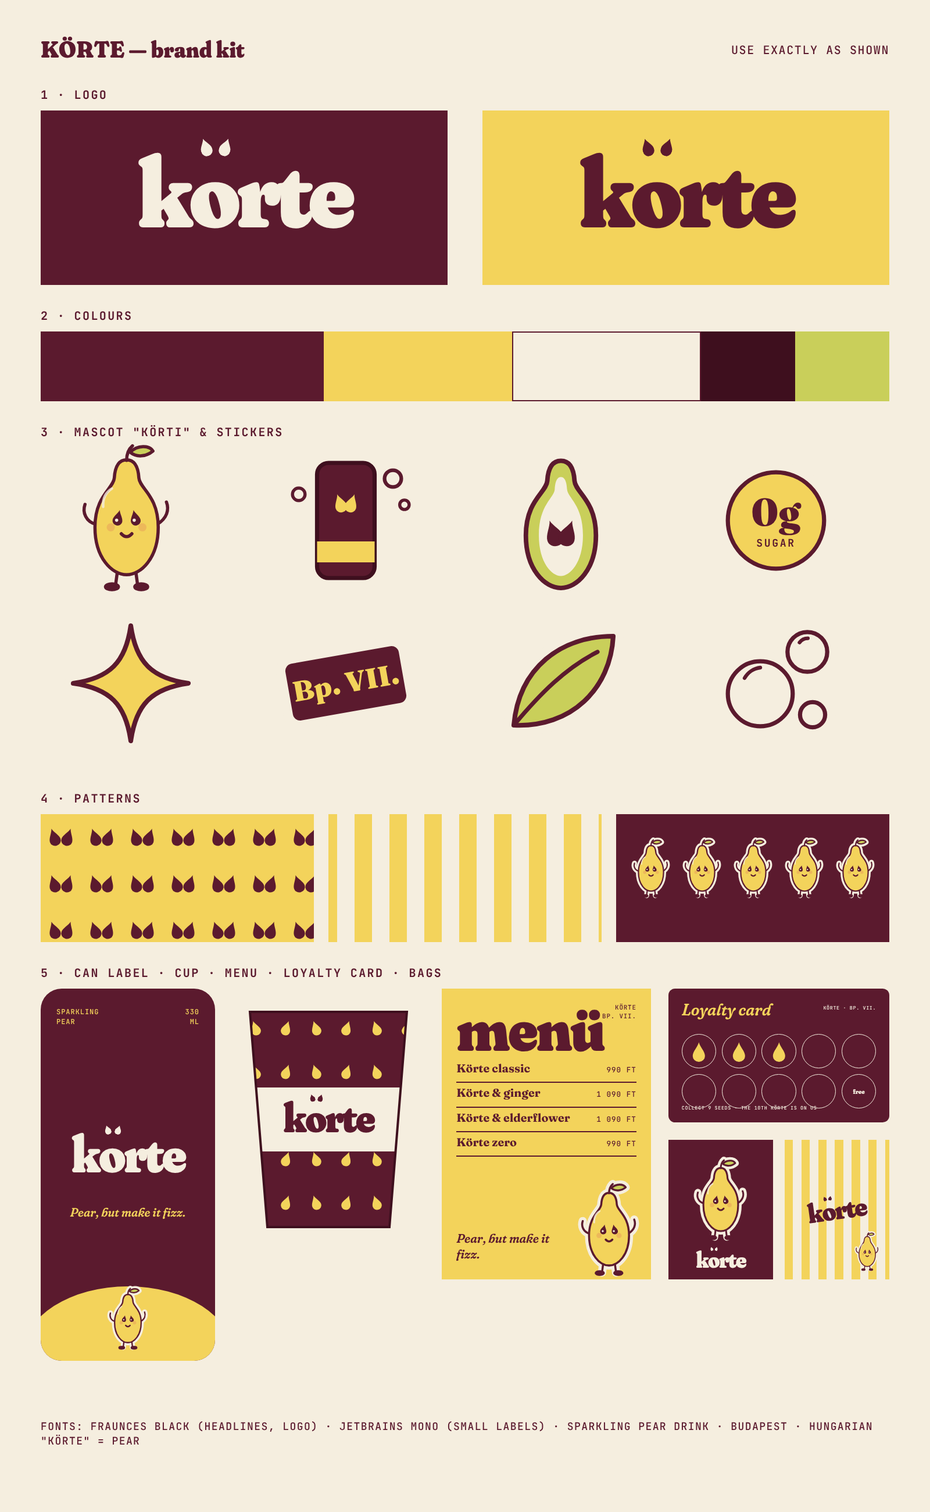
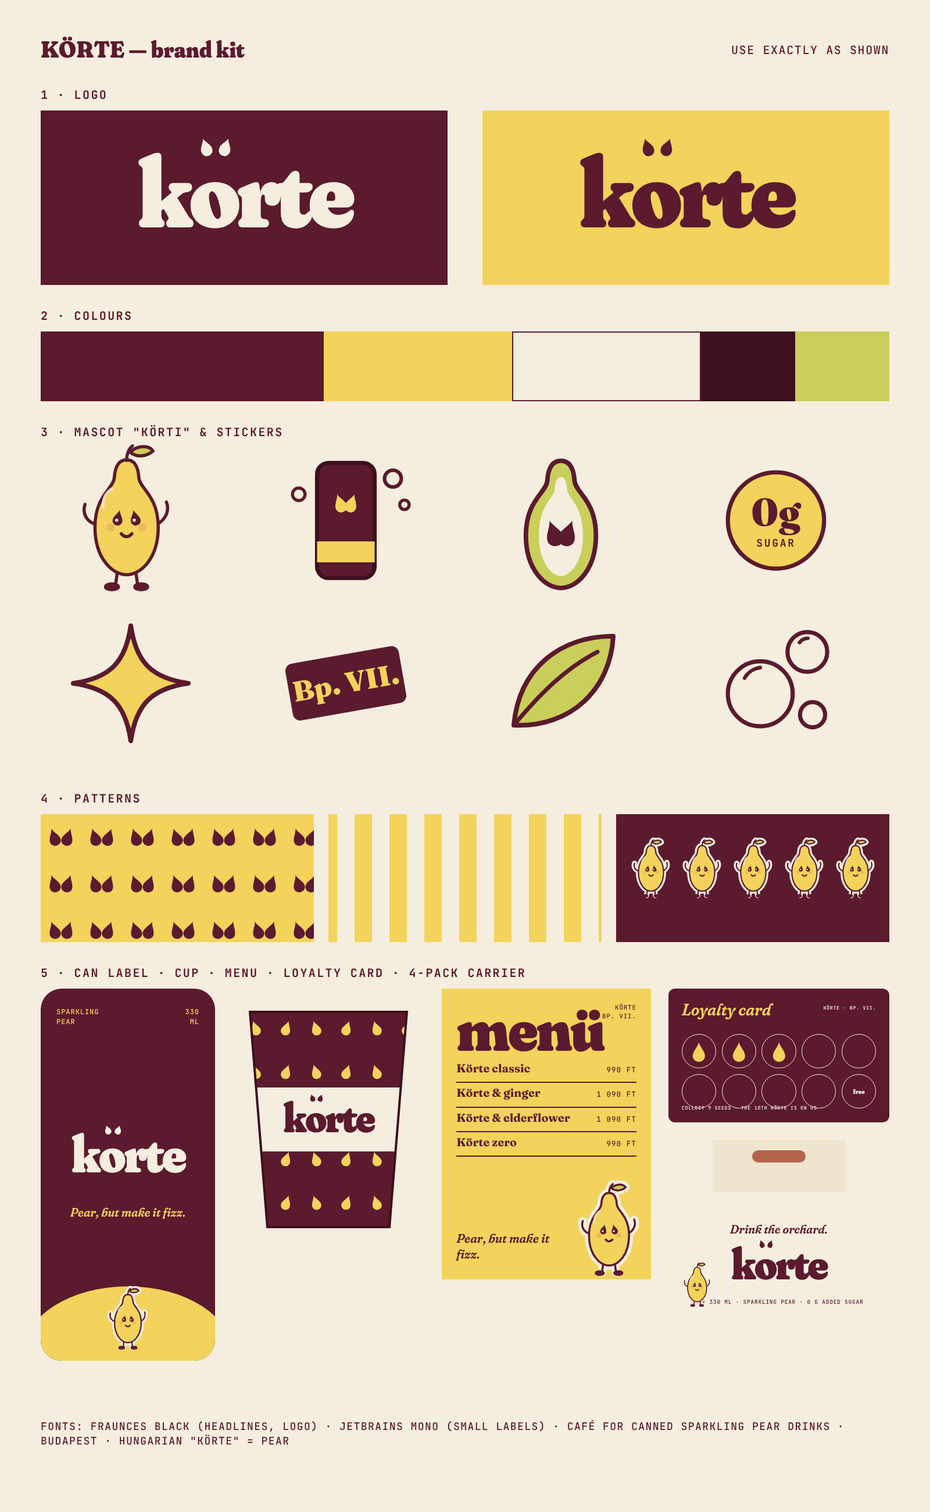
KÖRTE as a canned-drink café: drink-focused sketches, 4-pack in kit, 23promts6
Claude-Session: https://claude.ai/code/session_01FuZubXyqYQcha8AH4cMf93

Changed region(s): [[0.7188, 0.7477, 0.9688, 0.8723]]

diff --git a/reels/brands/korte/kit.html b/reels/brands/korte/kit.html
@@ -92,14 +92,13 @@
   </svg>
 
   <!-- applications -->
-  <div class="abs label" style="top:1660px;left:70px">5 · Can label · Cup · Menu · Loyalty card · Bags</div>
+  <div class="abs label" style="top:1660px;left:70px">5 · Can label · Cup · Menu · Loyalty card · 4-pack carrier</div>
   <div class="abs" style="top:1700px;left:70px;width:300px;height:640px" data-can></div>
   <div class="abs" style="top:1700px;left:400px;width:330px;height:420px" data-cup></div>
   <div class="abs" style="top:1700px;left:760px;width:360px;height:500px" data-menu></div>
   <div class="abs" style="top:1700px;left:1150px;width:380px;height:230px" data-loyalty></div>
-  <div class="abs" style="top:1960px;left:1150px;width:180px;height:240px" data-bag></div>
-  <div class="abs" style="top:1960px;left:1350px;width:180px;height:240px" data-stripebag></div>
-  <div class="abs mono" style="top:2440px;left:70px;right:70px;font-size:18px;color:var(--bur)">Fonts: Fraunces Black (headlines, logo) · JetBrains Mono (small labels) · Sparkling pear drink · Budapest · Hungarian "körte" = pear</div>
+  <div class="abs" style="top:1960px;left:1150px;width:380px;height:300px" data-carrier></div>
+  <div class="abs mono" style="top:2440px;left:70px;right:70px;font-size:18px;color:var(--bur)">Fonts: Fraunces Black (headlines, logo) · JetBrains Mono (small labels) · Café for canned sparkling pear drinks · Budapest · Hungarian "körte" = pear</div>
 </section>
 
 <!-- ================= REEL TILES / FRAMES ================= -->
@@ -153,40 +152,63 @@
   <div class="abs" style="left:300px;top:1440px;width:260px;height:30px;border-radius:50%;background:rgba(91,26,46,.18);filter:blur(10px)"></div>
 </section>
 
-<section data-out="sk-2-loyalty-card" class="sk" style="background:repeating-linear-gradient(90deg,#5B1A2E 0 46px,#4C1426 46px 92px)">
-  <div class="abs" style="left:150px;top:520px;width:740px;height:440px;transform:rotate(-7deg);box-shadow:20px 30px 40px rgba(0,0,0,.4)" data-loyalty></div>
-  <svg class="abs" width="300" height="390" style="left:640px;top:1000px;transform:rotate(28deg);filter:drop-shadow(18px 24px 18px rgba(0,0,0,.45))" viewBox="0 0 400 520"><use href="#pear3d"/></svg>
-  <div class="abs" style="inset:0;background:linear-gradient(135deg,rgba(255,240,200,.18),rgba(0,0,0,0) 45%,rgba(0,0,0,.25))"></div>
+
+
+
+
+
+
+
+
+
+<section data-out="sk-2-can-pour" class="sk" style="background:#F5EEDF">
+  <div class="abs" style="left:0;right:0;top:0;height:560px;background:repeating-linear-gradient(90deg,#5B1A2E 0 120px,#64203A 120px 240px)"></div>
+  <div class="abs" style="left:0;right:0;top:540px;height:24px;background:#3E0F1E"></div>
+  <div class="abs" style="left:0;right:0;top:1180px;bottom:0;background:linear-gradient(#D9B98C,#C49E6E)"></div>
+  <div class="can3d" style="left:520px;top:250px;width:230px;height:470px;transform:rotate(118deg);border-radius:30px;"><div data-can style="width:230px;height:470px"></div><div class="shade"></div><div class="rim"></div><div class="rimb"></div></div>
+  <div class="abs" style="left:478px;top:560px;width:16px;height:470px;border-radius:8px;background:linear-gradient(90deg,#E8C460,#FFF0B0,#E3BC52);opacity:.9"></div>
+  <div class="abs" style="left:350px;top:820px;width:300px;height:420px;border-radius:10px 10px 30px 30px;background:linear-gradient(90deg,rgba(255,255,255,.55),rgba(255,255,255,.15) 30%,rgba(255,255,255,.1) 70%,rgba(255,255,255,.5));border:4px solid rgba(255,255,255,.8)"></div>
+  <div class="abs" style="left:356px;top:930px;width:288px;height:306px;border-radius:0 0 28px 28px;background:linear-gradient(90deg,#E2B84A,#F4D77A 35%,#EBC458 70%,#D9AC3C)"></div>
+  <div class="abs" style="left:356px;top:918px;width:288px;height:26px;border-radius:50%;background:#FFF6D6"></div>
+  <div class="abs" style="left:620px;top:1280px;width:380px;height:228px;transform:rotate(-6deg);box-shadow:12px 16px 20px rgba(0,0,0,.25)" data-loyalty></div>
 </section>
 
-<section data-out="sk-3-bag-brick" class="sk" style="background:#B5654A">
+<section data-out="sk-3-cafe-table" class="sk" style="background:#B86A4E">
+  <svg class="abs" width="1024" height="1536"><defs><pattern id="tile" width="128" height="128" patternUnits="userSpaceOnUse"><rect width="128" height="128" fill="#C2765A"/><rect width="126" height="126" fill="#B86A4E"/></pattern></defs><rect width="1024" height="1536" fill="url(#tile)"/></svg>
+  <div class="abs" style="left:-80px;top:220px;width:1180px;height:1180px;border-radius:50%;background:radial-gradient(circle at 40% 35%,#FBF8F2,#ECE6DA);box-shadow:0 30px 50px rgba(0,0,0,.35)"></div>
+  <div class="can3d" style="left:180px;top:520px;width:240px;height:490px;transform:rotate(-72deg);border-radius:31px;box-shadow:30px 40px 40px rgba(0,0,0,.25)"><div data-can style="width:240px;height:490px"></div><div class="shade"></div><div class="rim"></div><div class="rimb"></div></div>
+  <div class="abs" style="left:560px;top:430px;width:300px;height:300px;border-radius:50%;background:radial-gradient(circle,#F6DC80,#E2B84A 70%,#fff 72%,#e9e4da 78%);box-shadow:16px 20px 26px rgba(0,0,0,.25)"></div>
+  <div class="abs" style="left:520px;top:880px;width:400px;height:240px;transform:rotate(10deg);box-shadow:14px 18px 24px rgba(0,0,0,.25)" data-loyalty></div>
+  <div class="abs" style="left:150px;top:960px;width:320px;height:440px;transform:rotate(-8deg);box-shadow:14px 18px 24px rgba(0,0,0,.25)" data-menu></div>
+</section>
+
+<section data-out="sk-4-fourpack-brick" class="sk" style="background:#B5654A">
   <svg class="abs" width="1024" height="1100" style="top:0;left:0">
     <defs><pattern id="brick" width="160" height="80" patternUnits="userSpaceOnUse">
       <rect width="160" height="80" fill="#D9CDB8"/><rect x="4" y="4" width="152" height="34" fill="#A85A40"/><rect x="-76" y="44" width="152" height="34" fill="#B4664A"/><rect x="84" y="44" width="152" height="34" fill="#9E5039"/></pattern></defs>
-    <rect width="1024" height="1100" fill="url(#brick)"/>
-  </svg>
+    <rect width="1024" height="1100" fill="url(#brick)"/></svg>
   <div class="abs" style="left:0;right:0;top:1100px;height:90px;background:#C8B79C"></div>
   <div class="abs" style="left:0;right:0;top:1190px;bottom:0;background:#9C8A70"></div>
-  <svg class="abs" width="420" height="300" style="left:302px;top:250px" fill="none" stroke="#3E0F1E" stroke-width="22" stroke-linecap="round"><path d="M70 300C70 120 160 60 210 60S350 120 350 300"/></svg>
-  <div class="abs" style="left:262px;top:440px;width:500px;height:660px;box-shadow:30px 20px 40px rgba(0,0,0,.35)" data-bag></div>
-  <div class="abs" style="left:262px;top:440px;width:500px;height:660px;background:linear-gradient(90deg,rgba(0,0,0,.25),rgba(255,255,255,.06) 30%,rgba(0,0,0,0) 60%,rgba(0,0,0,.3))"></div>
-  <div class="abs" style="inset:0;background:linear-gradient(120deg,rgba(255,230,180,.25) 0 40%,rgba(0,0,0,.18) 40% 100%)"></div>
+  <div class="can3d" style="left:250px;top:420px;width:190px;height:300px;transform:rotate(0deg);border-radius:25px;"><div data-can style="width:190px;height:300px"></div><div class="shade"></div><div class="rim"></div><div class="rimb"></div></div><div class="can3d" style="left:420px;top:410px;width:190px;height:310px;transform:rotate(0deg);border-radius:25px;"><div data-can style="width:190px;height:310px"></div><div class="shade"></div><div class="rim"></div><div class="rimb"></div></div><div class="can3d" style="left:590px;top:420px;width:190px;height:300px;transform:rotate(0deg);border-radius:25px;"><div data-can style="width:190px;height:300px"></div><div class="shade"></div><div class="rim"></div><div class="rimb"></div></div>
+  <div class="abs" style="left:212px;top:320px;width:600px;height:780px;box-shadow:30px 20px 40px rgba(0,0,0,.35)" data-carrier></div>
+  <div class="abs" style="inset:0;background:linear-gradient(120deg,rgba(255,230,180,.22) 0 42%,rgba(0,0,0,.16) 42% 100%)"></div>
 </section>
 
-<section data-out="sk-4-striped-bag" class="sk" style="background:#5B1A2E">
-  <svg class="abs" width="360" height="470" style="left:300px;top:220px;transform:rotate(-10deg)" viewBox="0 0 400 520"><use href="#pear3d"/></svg>
-  <div class="abs" style="left:232px;top:520px;width:560px;height:720px;transform:rotate(4deg);box-shadow:24px 30px 40px rgba(0,0,0,.4)" data-stripebag></div>
-  <svg class="abs" width="560" height="40" style="left:232px;top:500px;transform:rotate(4deg)"><path d="M0 40 L20 8 L40 40 L60 8 L80 40 L100 8 L120 40 L140 8 L160 40 L180 8 L200 40 L220 8 L240 40 L260 8 L280 40 L300 8 L320 40 L340 8 L360 40 L380 8 L400 40 L420 8 L440 40 L460 8 L480 40 L500 8 L520 40 L540 8 L560 40" fill="#F5EEDF"/></svg>
-  <div class="abs" style="inset:0;background:radial-gradient(circle at 40% 30%,rgba(255,255,255,.12),rgba(0,0,0,.3) 80%)"></div>
-</section>
-
-<section data-out="sk-5-pears-stand" class="sk" style="background:#5B1A2E">
-  <div class="abs" style="left:0;right:0;top:1060px;bottom:0;background:#4A1424"></div>
-  <div class="abs" style="left:150px;top:960px;width:724px;height:90px;border-radius:50%;background:#F4F1EA;box-shadow:0 20px 30px rgba(0,0,0,.35)"></div>
-  <div class="abs" style="left:462px;top:1000px;width:100px;height:200px;background:linear-gradient(90deg,#d8d4cb,#fbf9f4,#cfcac0)"></div>
-  <div class="abs" style="left:372px;top:1185px;width:280px;height:50px;border-radius:50%;background:#EDEAE2"></div>
-  <svg class="abs" width="300" height="390" style="left:180px;top:640px;transform:rotate(-14deg);filter:drop-shadow(10px 14px 10px rgba(0,0,0,.35))" viewBox="0 0 400 520"><use href="#pear3d"/></svg><svg class="abs" width="320" height="416" style="left:400px;top:600px;transform:rotate(8deg);filter:drop-shadow(10px 14px 10px rgba(0,0,0,.35))" viewBox="0 0 400 520"><use href="#pear3d"/></svg><svg class="abs" width="288" height="374" style="left:600px;top:650px;transform:rotate(18deg);filter:drop-shadow(10px 14px 10px rgba(0,0,0,.35))" viewBox="0 0 400 520"><use href="#pear3d"/></svg><svg class="abs" width="280" height="364" style="left:290px;top:420px;transform:rotate(-6deg);filter:drop-shadow(10px 14px 10px rgba(0,0,0,.35))" viewBox="0 0 400 520"><use href="#pear3d"/></svg><svg class="abs" width="288" height="374" style="left:500px;top:400px;transform:rotate(12deg);filter:drop-shadow(10px 14px 10px rgba(0,0,0,.35))" viewBox="0 0 400 520"><use href="#pear3d"/></svg><svg class="abs" width="264" height="343" style="left:390px;top:240px;transform:rotate(-2deg);filter:drop-shadow(10px 14px 10px rgba(0,0,0,.35))" viewBox="0 0 400 520"><use href="#pear3d"/></svg>
-  <div class="abs" style="inset:0;background:linear-gradient(90deg,rgba(255,235,190,.16),rgba(0,0,0,0) 50%,rgba(0,0,0,.25))"></div>
+<section data-out="sk-5-cafe-front" class="sk" style="background:#E7DCC6">
+  <svg class="abs" width="1024" height="1536"><g stroke="#D3C6AD" stroke-width="4"><path d="M0 120H1024M0 260H1024M0 400H1024"/></g>
+    <rect x="140" y="0" width="200" height="300" fill="#C9BBA0"/><rect x="684" y="0" width="200" height="300" fill="#C9BBA0"/>
+    <rect x="160" y="20" width="160" height="260" fill="#8FA3A8"/><rect x="704" y="20" width="160" height="260" fill="#8FA3A8"/></svg>
+  <div class="abs" style="left:60px;right:60px;top:420px;height:900px;background:#5B1A2E"></div>
+  <div class="abs center" style="left:120px;right:120px;top:450px;height:170px;background:#F5EEDF;color:#5B1A2E"><div class="lg" style="font-size:120px"></div></div>
+  <div class="abs" style="left:60px;right:60px;top:640px;height:90px;background:repeating-linear-gradient(90deg,#F3D35B 0 70px,#F5EEDF 70px 140px);clip-path:polygon(0 0,100% 0,100% 70%,96% 100%,92% 70%,88% 100%,84% 70%,80% 100%,76% 70%,72% 100%,68% 70%,64% 100%,60% 70%,56% 100%,52% 70%,48% 100%,44% 70%,40% 100%,36% 70%,32% 100%,28% 70%,24% 100%,20% 70%,16% 100%,12% 70%,8% 100%,4% 70%,0 100%)"></div>
+  <div class="abs" style="left:110px;top:770px;width:500px;height:500px;background:linear-gradient(135deg,#3B2A22,#5a4234);border:12px solid #3E0F1E"></div>
+  <svg class="abs" width="480" height="480" style="left:120px;top:780px"><rect x="20" y="70" width="440" height="8" fill="#C9A86A"/><rect x="30" y="8" width="44" height="62" rx="6" fill="#5B1A2E"/><rect x="30" y="46" width="44" height="12" fill="#F3D35B"/><rect x="92" y="8" width="44" height="62" rx="6" fill="#5B1A2E"/><rect x="92" y="46" width="44" height="12" fill="#F3D35B"/><rect x="154" y="8" width="44" height="62" rx="6" fill="#5B1A2E"/><rect x="154" y="46" width="44" height="12" fill="#F3D35B"/><rect x="216" y="8" width="44" height="62" rx="6" fill="#5B1A2E"/><rect x="216" y="46" width="44" height="12" fill="#F3D35B"/><rect x="278" y="8" width="44" height="62" rx="6" fill="#5B1A2E"/><rect x="278" y="46" width="44" height="12" fill="#F3D35B"/><rect x="340" y="8" width="44" height="62" rx="6" fill="#5B1A2E"/><rect x="340" y="46" width="44" height="12" fill="#F3D35B"/><rect x="402" y="8" width="44" height="62" rx="6" fill="#5B1A2E"/><rect x="402" y="46" width="44" height="12" fill="#F3D35B"/><rect x="20" y="200" width="440" height="8" fill="#C9A86A"/><rect x="30" y="138" width="44" height="62" rx="6" fill="#5B1A2E"/><rect x="30" y="176" width="44" height="12" fill="#F3D35B"/><rect x="92" y="138" width="44" height="62" rx="6" fill="#5B1A2E"/><rect x="92" y="176" width="44" height="12" fill="#F3D35B"/><rect x="154" y="138" width="44" height="62" rx="6" fill="#5B1A2E"/><rect x="154" y="176" width="44" height="12" fill="#F3D35B"/><rect x="216" y="138" width="44" height="62" rx="6" fill="#5B1A2E"/><rect x="216" y="176" width="44" height="12" fill="#F3D35B"/><rect x="278" y="138" width="44" height="62" rx="6" fill="#5B1A2E"/><rect x="278" y="176" width="44" height="12" fill="#F3D35B"/><rect x="340" y="138" width="44" height="62" rx="6" fill="#5B1A2E"/><rect x="340" y="176" width="44" height="12" fill="#F3D35B"/><rect x="402" y="138" width="44" height="62" rx="6" fill="#5B1A2E"/><rect x="402" y="176" width="44" height="12" fill="#F3D35B"/><rect x="20" y="330" width="440" height="8" fill="#C9A86A"/><rect x="30" y="268" width="44" height="62" rx="6" fill="#5B1A2E"/><rect x="30" y="306" width="44" height="12" fill="#F3D35B"/><rect x="92" y="268" width="44" height="62" rx="6" fill="#5B1A2E"/><rect x="92" y="306" width="44" height="12" fill="#F3D35B"/><rect x="154" y="268" width="44" height="62" rx="6" fill="#5B1A2E"/><rect x="154" y="306" width="44" height="12" fill="#F3D35B"/><rect x="216" y="268" width="44" height="62" rx="6" fill="#5B1A2E"/><rect x="216" y="306" width="44" height="12" fill="#F3D35B"/><rect x="278" y="268" width="44" height="62" rx="6" fill="#5B1A2E"/><rect x="278" y="306" width="44" height="12" fill="#F3D35B"/><rect x="340" y="268" width="44" height="62" rx="6" fill="#5B1A2E"/><rect x="340" y="306" width="44" height="12" fill="#F3D35B"/><rect x="402" y="268" width="44" height="62" rx="6" fill="#5B1A2E"/><rect x="402" y="306" width="44" height="12" fill="#F3D35B"/><use href="#mascot" transform="translate(300 300) scale(.42)" opacity=".95"/></svg>
+  <div class="abs" style="left:660px;top:770px;width:250px;height:550px;background:#3E0F1E;border:12px solid #4A1424"></div>
+  <div class="abs" style="left:860px;top:1030px;width:20px;height:40px;border-radius:6px;background:#D9B65A"></div>
+  <div class="abs" style="left:0;right:0;top:1320px;bottom:0;background:#BDB3A3"></div>
+  <div class="abs" style="left:640px;top:1300px;width:300px;height:30px;border-radius:50%;background:#4A3A30"></div>
+  <div class="abs" style="left:780px;top:1310px;width:12px;height:226px;background:#4A3A30"></div>
+  <div class="can3d" style="left:700px;top:1210px;width:50px;height:100px;transform:rotate(0deg);border-radius:6px;"><div data-can style="width:50px;height:100px"></div><div class="shade"></div><div class="rim"></div><div class="rimb"></div></div>
 </section>
 
 <section data-out="sk-6-can-grey" class="sk" style="background:linear-gradient(#E4E4E2,#D2D2CF)">
@@ -265,6 +287,14 @@ fill('[data-bag]', (w,h)=>`<div style="position:absolute;inset:0;background:#5B1
 fill('[data-stripebag]', (w,h)=>`<div style="position:absolute;inset:0;background:repeating-linear-gradient(90deg,#F3D35B 0 ${w*.08}px,#F5EEDF ${w*.08}px ${w*.16}px);color:#5B1A2E">
   <div class="center" style="position:absolute;inset:0"><div class="lg" style="font-size:${w*.26}px;transform:rotate(-8deg)"></div></div>
   <svg style="position:absolute;right:${w*.06}px;bottom:${h*.06}px" width="${w*.3}" height="${w*.38}" viewBox="0 0 400 520"><use href="#mascot"/></svg></div>`);
+fill('[data-carrier]', (w,h)=>`<div style="position:absolute;inset:0;color:#5B1A2E">
+  <div style="position:absolute;left:0;right:0;top:0;height:${h*.3}px;background:#EFE5CF;clip-path:polygon(20% 0,80% 0,80% 100%,20% 100%)"></div>
+  <div style="position:absolute;left:38%;right:38%;top:${h*.06}px;height:${h*.07}px;border-radius:40px;background:#B5654A"></div>
+  <div style="position:absolute;left:0;right:0;top:${h*.42}px;bottom:0;background:#F5EEDF;border-radius:6px">
+    <div class="serif-i" style="position:absolute;top:${h*.05}px;width:100%;text-align:center;font-size:${w*.055}px">Drink the orchard.</div>
+    <div class="center" style="position:absolute;inset:0"><div class="lg" style="font-size:${w*.2}px"></div></div>
+    <div class="mono" style="position:absolute;bottom:${h*.05}px;width:100%;text-align:center;font-size:${w*.025}px">4 × 330 ml · Sparkling pear · 0 g added sugar</div>
+    <svg style="position:absolute;left:${w*.05}px;bottom:${h*.04}px" width="${w*.16}" height="${w*.21}" viewBox="0 0 400 520"><use href="#mascot"/></svg></div></div>`);
 document.querySelectorAll('.lg').forEach(el=>el.innerHTML=LOGO);
 </script>
 </body>

diff --git a/reels/brands/korte/23promts6.md b/reels/brands/korte/23promts6.md
@@ -1,0 +1,52 @@
+# 23promts6 — KÖRTE café reel — 6 sketches to bring to life
+
+**Total images: 6**
+
+(Use this instead of 23promts5.)
+
+Upload this file **together with the 6 sketch images**: `1-cans-floating.png`, `2-can-pour.png`, `3-cafe-table.png`, `4-fourpack-brick.png`, `5-cafe-front.png`, `6-can-grey.png`.
+
+---
+
+## Instructions for ChatGPT
+
+I'm a graphic designer. Each attached sketch is my **flat design comp** for one photo of a fictional brand, **KÖRTE** ("pear" in Hungarian): a Budapest café built around its own **canned sparkling pear drink**. Your job is to turn each sketch into a **realistic, high-end photograph** that looks real and three-dimensional.
+
+**Before you make anything:** reply in one line with the brand name, how many sketches you received, and the name of sketch 1, so I know you have them all. Then wait for me to say "start".
+
+Then:
+1. On "start", make **only Image 1** from sketch 1.
+2. Each time I say **"next"**, make the next image from the next sketch.
+3. Start every reply with "Image N of 6 — name".
+4. On **"redo"**, make the same image again with my fixes.
+5. After Image 6, say "All 6 images done."
+
+**Rules for every image:**
+- **Keep my composition exactly:** same objects, same positions, same angles, same sizes, same colours, same background.
+- **Keep every design exactly as drawn:** the "körte" logo (lowercase, two pear-seed dots over the ö), the can label, the mascot, the menu, the loyalty card, the carrier and all small text. Don't redraw, rename or add anything. No other text or logos anywhere.
+- **The drink is a pale golden sparkling pear drink** with fine bubbles. Cans are matte burgundy aluminium with silver rims.
+- **Make it real:** real materials, real soft daylight with natural shadows and reflections, real depth, subtle film grain. It should look like a professional photo from a branding studio's portfolio.
+- **Don't** make it look like a 3D render, CGI, plastic, cartoon or illustration (printed artwork like the mascot stays printed graphics).
+- **No** ice cubes, garnish, mint, citrus, splashes, droplets or bokeh.
+- **Ignore your memory and anything you know about me or my other brands.** This is NOT 23 Team.
+- **Format: tall portrait, 1024×1536**, same as the sketches.
+
+---
+
+## Image 1 of 6 — cans-floating
+From sketch 1: three KÖRTE cans floating and tumbling in mid-air against a flat butter-yellow studio background, a soft shadow on the floor below.
+
+## Image 2 of 6 — can-pour
+From sketch 2: inside the KÖRTE café. **A real hand holds the tilted KÖRTE can** (add the hand naturally, coming from the top right) and pours a thin stream of pale golden sparkling pear drink into a clear glass on a light wooden counter. Burgundy striped wall behind, the loyalty card lying on the counter. Daylight from a window.
+
+## Image 3 of 6 — cafe-table
+From sketch 3: top-down photo of a round white marble café table on terracotta floor tiles: a KÖRTE can lying on its side, a glass of the pear drink seen from above, the KÖRTE menu and the loyalty card. Soft daylight, real shadows.
+
+## Image 4 of 6 — fourpack-brick
+From sketch 4: the cream KÖRTE 4-pack carrier holding four KÖRTE cans, standing on a stone ledge in front of an old Budapest brick wall. Late-afternoon sun from the left casting a diagonal shadow.
+
+## Image 5 of 6 — cafe-front
+From sketch 5: the KÖRTE café on an old Budapest street, shot straight on: burgundy shop front, cream sign with the logo, butter-and-cream striped scalloped awning, a window full of shelves of KÖRTE cans with the mascot Körti painted on the glass, a burgundy door, and a small bistro table on the pavement with a KÖRTE can on it. Bright afternoon light.
+
+## Image 6 of 6 — can-grey
+From sketch 6: two real hands holding a KÖRTE can up towards the camera, cream sweater sleeves at the bottom, against a plain light-grey studio wall. Natural skin, real fingers wrapped round the can.

diff --git a/CLAUDE.md b/CLAUDE.md
@@ -11,8 +11,9 @@ This repo belongs to 23 Team, a Budapest branding, web and marketing studio.
 - The look to aim for is the user's references (Belle Bakery, Luwak): a mascot/illustration, stickers, patterns and rich applications (cups, menus, loyalty cards, bags, storefronts, posters) shown in real lifestyle scenes with hands, cut fast on the beat. The logo does not need to be centred. Formats and songs: `reels/README.md`.
 - One reel format per brand: each new reel is a new fictional brand. KÖRTE = Belle-style brand board (`plan-bento.json`); the Luwak-style desk reveal goes to the next brand.
 - Reels end on a short "23 Marketing" card (brand awareness only, no "DM for logo" or other call to action).
+- Every shot must relate to the brand's core product (e.g. for a canned-drink café every photo shows the can/drink); the only exceptions are packaging that contains the product and the shop/café itself. Write this into the brand's `brand.md`.
 - Each brand gets a brand kit image (`kit.html` → `<brand>-brand-kit.png`) that the user uploads to ChatGPT together with the prompt file; prompts then ask ChatGPT to put those exact designs on the products (no more blank labels).
-- Preferred photo method ("sketch to life"): Claude designs each scene as a flat comp (`kit.html` sections `sk-N-name`, 1024×1536, exact composition and real artwork on the products), saved to `brands/<name>/sketches/`. The user uploads the sketches + prompt file to ChatGPT, which turns each into a realistic photo keeping composition and designs exactly. See `brands/korte/23promts5.md`.
+- Preferred photo method ("sketch to life"): Claude designs each scene as a flat comp (`kit.html` sections `sk-N-name`, 1024×1536, exact composition and real artwork on the products), saved to `brands/<name>/sketches/`. The user uploads the sketches + prompt file to ChatGPT, which turns each into a realistic photo keeping composition and designs exactly. See `brands/korte/23promts6.md`.
 - ChatGPT image prompt files are named `23promts1.md`, `23promts2.md`, … (exact spelling, one number per file, counting across ALL brands, never reusing a number). Before making one, find the highest existing number with `find reels -name '23promts*.md'` and use the next. Save it in `brands/<name>/`. Write it so the user can upload the whole file to ChatGPT and just say "next":
   - Title and first line state the total, e.g. "**Total images: 8**".
   - An "Instructions for ChatGPT" block: generate only Image 1, then one image per "next", "redo" to retry, announce each as "Image N of TOTAL — name", say when all are done.

diff --git a/reels/brands/korte/brand.md b/reels/brands/korte/brand.md
@@ -1,6 +1,9 @@
 # KÖRTE — fictional brand (23 Team concept)
 
-- **What:** sparkling pear drink, cold pressed, no sugar added. Budapest.
+- **What:** a Budapest café (Bp. VII.) built around its own canned sparkling pear drinks, cold pressed, no sugar added. You drink a KÖRTE can at the café or take a 4-pack home.
+- **Audience:** young locals and visitors who want something local, natural and good-looking on the table instead of sugary soda.
+- **Mascot:** Körti, a pear whose eyes are the two seeds from the logo.
+- **Shots rule:** every photo features the canned drink, except the 4-pack packaging (with cans) and the café itself.
 - **Name:** "körte" is Hungarian for pear.
 - **Logo:** lowercase "körte" in Fraunces Black (soft, wonky cut). The two umlaut dots over the ö are pear seeds.
 - **Palette:** Burgundy `#5B1A2E` · Butter `#F3D35B` · Cream `#F5EEDF` · Deep burgundy `#3E0F1E`
